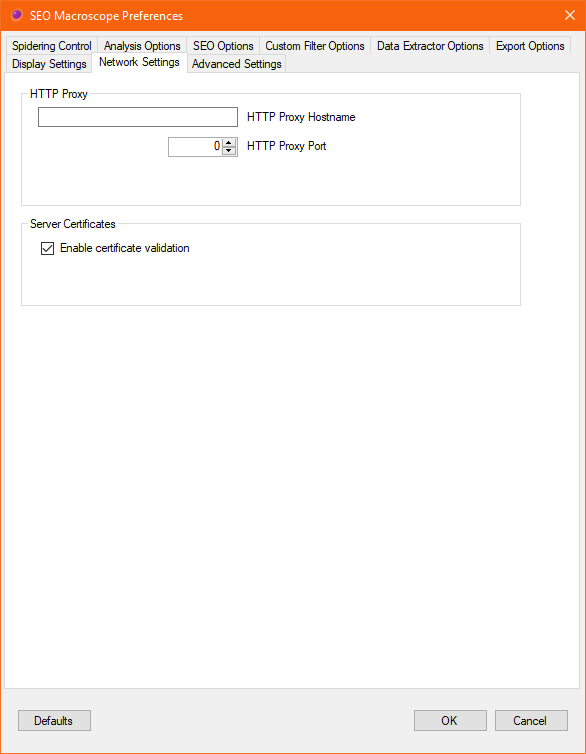
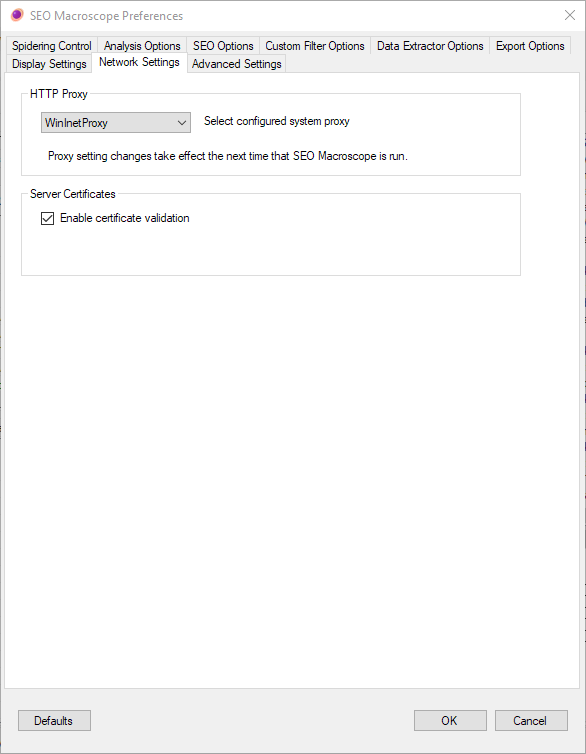
Release for v1.7.1.0
.

diff --git a/SEOMacroscopeSeriesOne/src/MacroscopeUserControls/MacroscopePrefsControl/MacroscopePrefsControl.Designer.cs b/SEOMacroscopeSeriesOne/src/MacroscopeUserControls/MacroscopePrefsControl/MacroscopePrefsControl.Designer.cs
@@ -362,6 +362,7 @@ namespace SEOMacroscope
       this.tabPageNetworkSettings = new System.Windows.Forms.TabPage();
       this.flowLayoutPanel4 = new System.Windows.Forms.FlowLayoutPanel();
       this.groupBox33 = new System.Windows.Forms.GroupBox();
+      this.label10 = new System.Windows.Forms.Label();
       this.comboBoxProxyType = new System.Windows.Forms.ComboBox();
       this.label9 = new System.Windows.Forms.Label();
       this.groupBox28 = new System.Windows.Forms.GroupBox();
@@ -370,7 +371,6 @@ namespace SEOMacroscope
       this.flowLayoutPanel7 = new System.Windows.Forms.FlowLayoutPanel();
       this.groupBox19 = new System.Windows.Forms.GroupBox();
       this.checkBoxEnableMemoryGuard = new System.Windows.Forms.CheckBox();
-      this.label10 = new System.Windows.Forms.Label();
       this.tabControlPreferences.SuspendLayout();
       this.tabPageSpideringControl.SuspendLayout();
       this.flowLayoutPanel1.SuspendLayout();
@@ -2397,6 +2397,15 @@ namespace SEOMacroscope
       this.groupBox33.TabStop = false;
       this.groupBox33.Text = "HTTP Proxy";
       // 
+      // label10
+      // 
+      this.label10.Location = new System.Drawing.Point(20, 60);
+      this.label10.Margin = new System.Windows.Forms.Padding(0);
+      this.label10.Name = "label10";
+      this.label10.Size = new System.Drawing.Size(460, 20);
+      this.label10.TabIndex = 14;
+      this.label10.Text = "Proxy setting changes take effect the next time that SEO Macroscope is run.";
+      // 
       // comboBoxProxyType
       // 
       this.comboBoxProxyType.DropDownStyle = System.Windows.Forms.ComboBoxStyle.DropDownList;
@@ -2480,15 +2489,6 @@ namespace SEOMacroscope
       this.checkBoxEnableMemoryGuard.TabIndex = 1;
       this.checkBoxEnableMemoryGuard.Text = "Enable memory guard";
       this.checkBoxEnableMemoryGuard.UseVisualStyleBackColor = true;
-      // 
-      // label10
-      // 
-      this.label10.Location = new System.Drawing.Point(20, 60);
-      this.label10.Name = "label10";
-      this.label10.Padding = new System.Windows.Forms.Padding(4, 2, 0, 0);
-      this.label10.Size = new System.Drawing.Size(460, 20);
-      this.label10.TabIndex = 14;
-      this.label10.Text = "Proxy setting changes take effect the next time that SEO Macroscope is run.";
       // 
       // MacroscopePrefsControl
       // 

diff --git a/SEOMacroscopeSeriesOne/Properties/AssemblyInfo.cs b/SEOMacroscopeSeriesOne/Properties/AssemblyInfo.cs
@@ -11,7 +11,7 @@ using System.Runtime.InteropServices;
 [assembly: AssemblyConfiguration( "" )]
 [assembly: AssemblyCompany( "" )]
 [assembly: AssemblyProduct( "SEO Macroscope" )]
-[assembly: AssemblyCopyright( "Copyright ©  2018 Jason Holland" )]
+[assembly: AssemblyCopyright( "Copyright © 2018 Jason Holland" )]
 [assembly: AssemblyTrademark( "" )]
 [assembly: AssemblyCulture( "" )]
 

diff --git a/SEOMacroscopeSeriesOne/src/MacroscopeEnvironment/MacroscopePreferencesManager.cs b/SEOMacroscopeSeriesOne/src/MacroscopeEnvironment/MacroscopePreferencesManager.cs
@@ -492,7 +492,7 @@ namespace SEOMacroscope
       MaxHeadingDepth = 2;
 
       AnalyzeKeywordsInText = false;
-      AnalyzeTextReadability = true;
+      AnalyzeTextReadability = false;
       AnalyzeTextReadabilityEnglishAlgorithm = 0;
 
       /** Custom Filter Options -------------------------------------------- **/

diff --git a/docs/_posts/2018-04-15-seo-macroscope-release-v1.7.1.0.md b/docs/_posts/2018-04-15-seo-macroscope-release-v1.7.1.0.md
@@ -1,13 +1,13 @@
 ---
 layout: post
-title: "New v1.7.1 release of SEO Macroscope: HTTP Too"
-date: "2018-04-13 18:00:00 -09:00"
-published: false
-description: "This release of SEO Macroscope primarily fixes bugs."
-excerpt: "This release of SEO Macroscope primarily fixes bugs."
+title: "New v1.7.1 release of SEO Macroscope: HTTP Too and a half"
+date: "2018-04-15 18:00:00 -09:00"
+published: true
+description: "This release of SEO Macroscope primarily fixes bugs from v1.7."
+excerpt: "This release of SEO Macroscope primarily fixes bugs from v1.7."
 ---
 
-This release of SEO Macroscope primarily fixes bugs in v1.7.
+This release of SEO Macroscope primarily fixes bugs from v1.7.
 {: .lead }
 
 Source code and an installer can be found on GitHub at:
@@ -19,6 +19,7 @@ Please check the [downloads page]({{ "/downloads/" | relative_url }}) for more r
 ## New features in this release include:
 
 * There is a new hyperlink ratio feature found in the document details panel, and in the overview Excel and CSV reports. This calculates the percentage value for the number of hyperlinks in and out of a particular document, within the crawled collection. It does not include links from third-party sites not in the crawled collection.
+* The web proxy settings may now now the systems configured proxies.
 
 ## Bug fixes
 

diff --git a/docs/manual/index.md b/docs/manual/index.md
@@ -2,7 +2,7 @@
 layout: page
 title: SEO Macroscope User Manual
 description: "The SEO Macroscope user manual."
-date: "2018-04-01 21:00:00 -09:00"
+date: "2018-04-15 21:00:00 -09:00"
 redirect_from:
   - /manual/preferences/spidering-control/
 ---
@@ -593,17 +593,11 @@ Configure your network settings here.
 
 Configure your web proxy settings here. Please consult your network administrator, if necessary.
 
-##### HTTP Proxy Hostname
+##### Select configured system proxy
 
-Enter the IP address or hostname of your network's web proxy.
-
-Leave this blank if no web proxy is required.
-
-##### HTTP Proxy Port
-
-Enter the port that your web proxy requires.
-
-Set this to 0 if no web proxy is required.
+* Select **No proxy** to disable the use of a web proxy.
+* Select **WinInetProxy** to use the web proxy configured in your Internet Explorer or Edge preferences. In many cases, this is the most commonly required option.
+* Select **WinHttpProxy** to use the system-wide web proxy configured for your system.
 
 #### Server Certificates
 

diff --git a/docs/_collection_releases/v1.7.1.0.md b/docs/_collection_releases/v1.7.1.0.md
@@ -3,5 +3,5 @@ name: SEO Macrocope v1.7.1.0
 tag: v1.7.1.0
 arch: 64
 installer: SEO-Macroscope-Installer-1.7.1.0.msi
-published: false
+published: true
 ---
